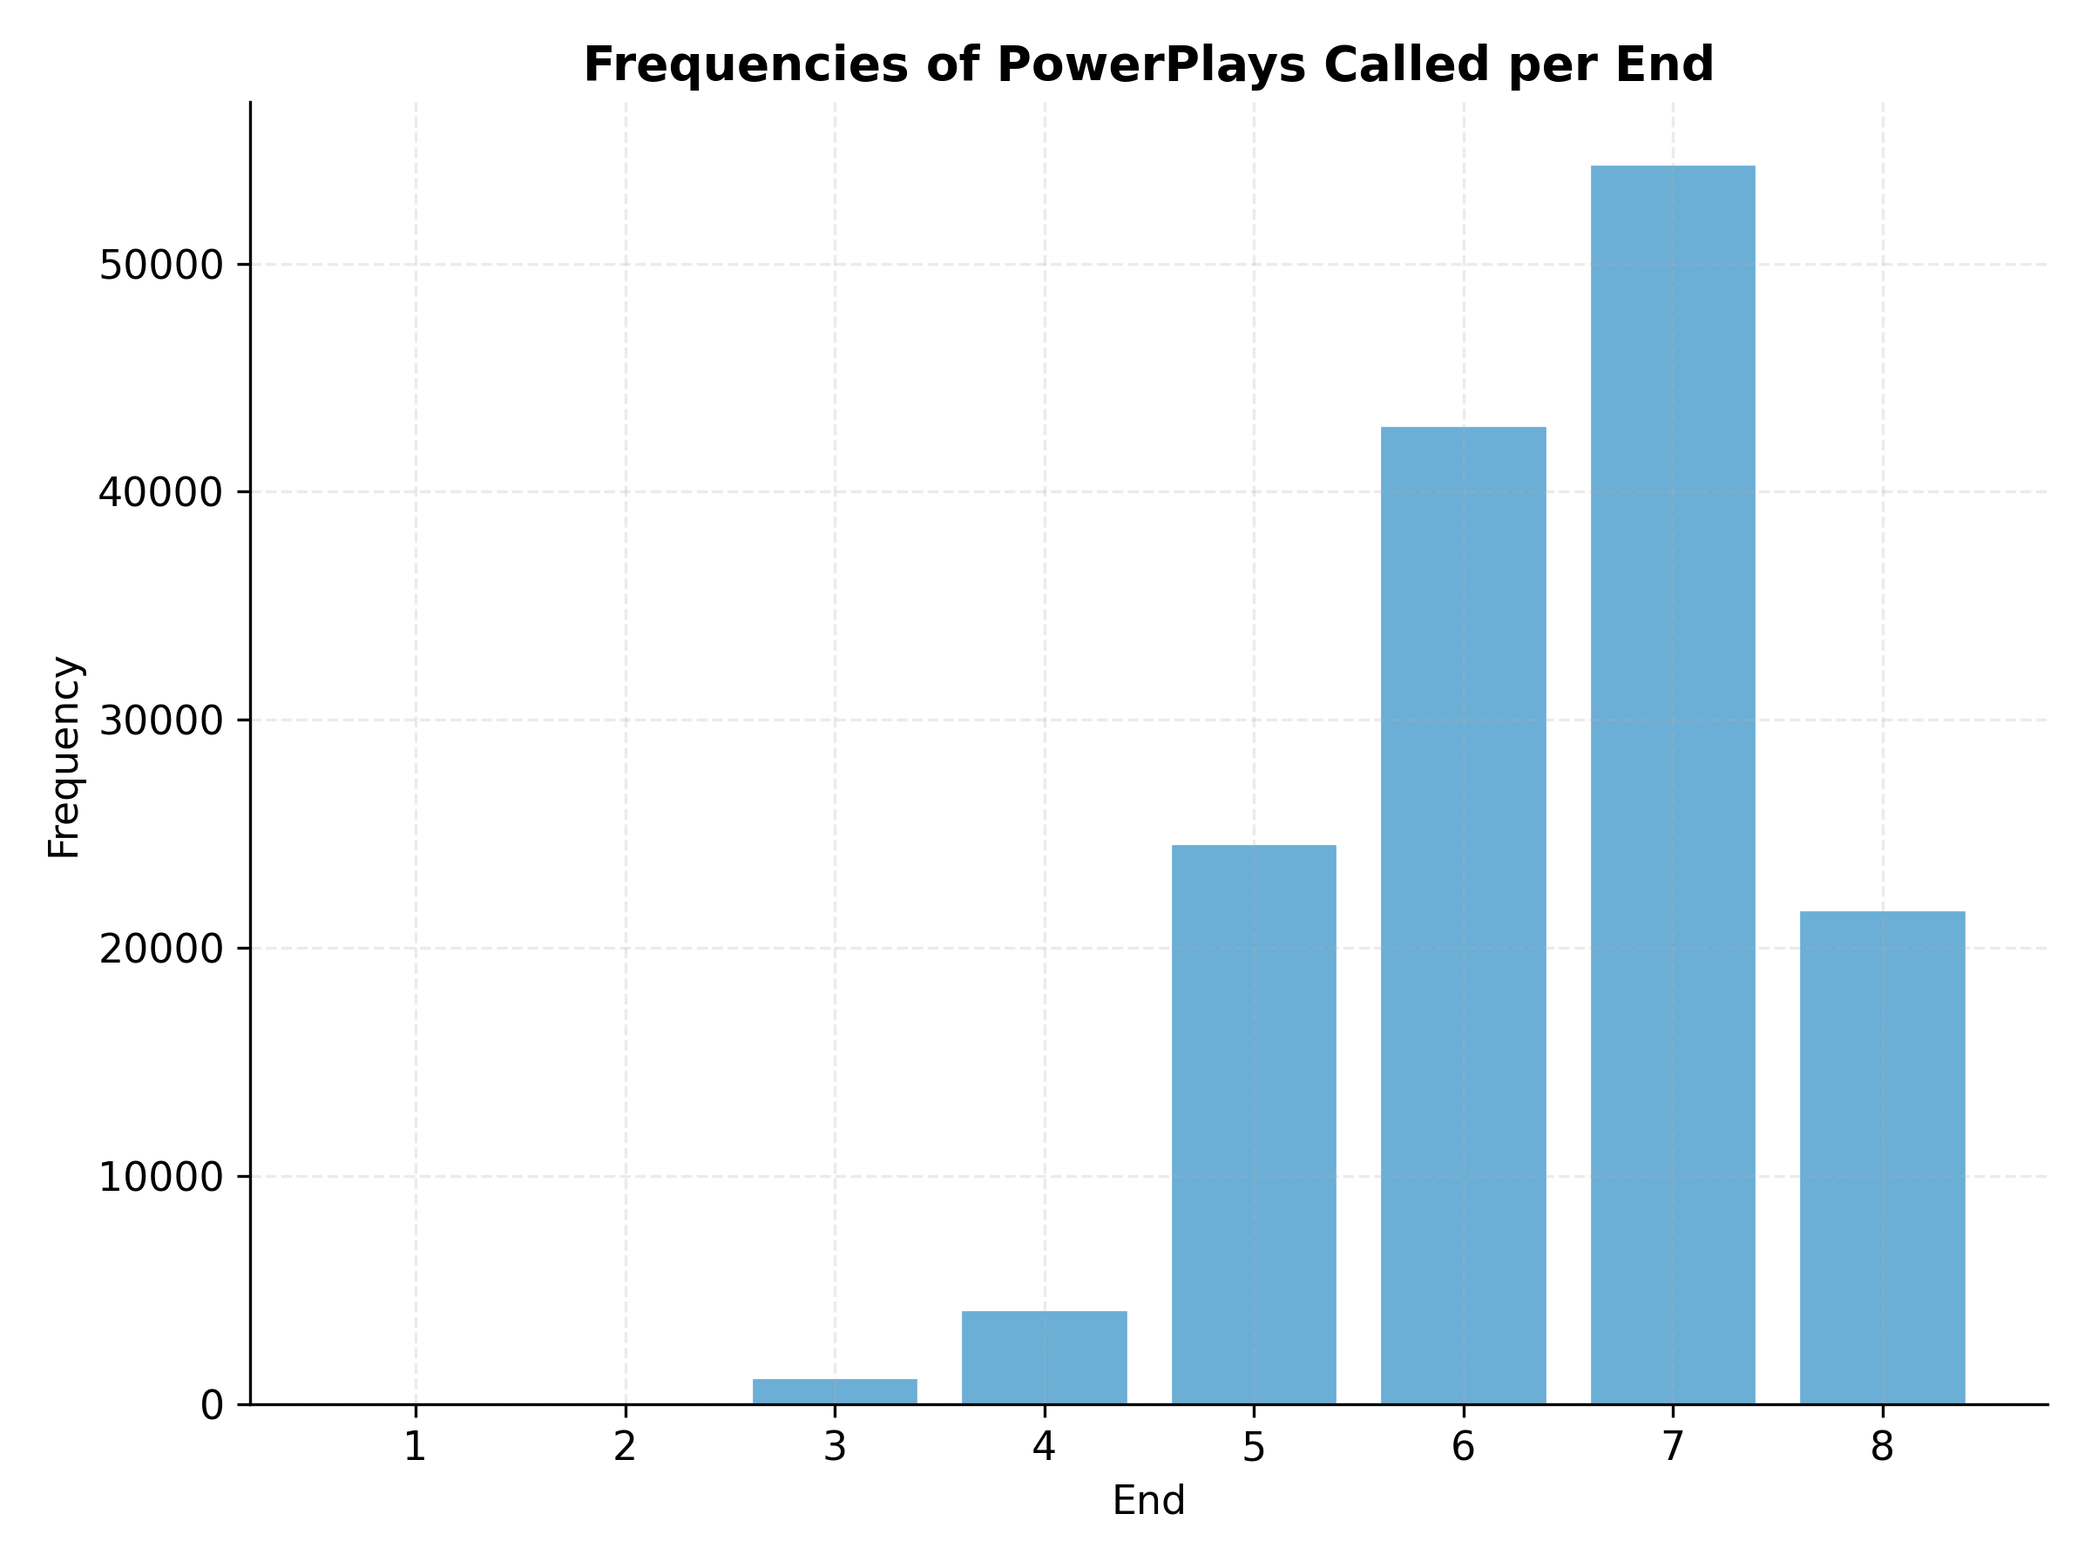
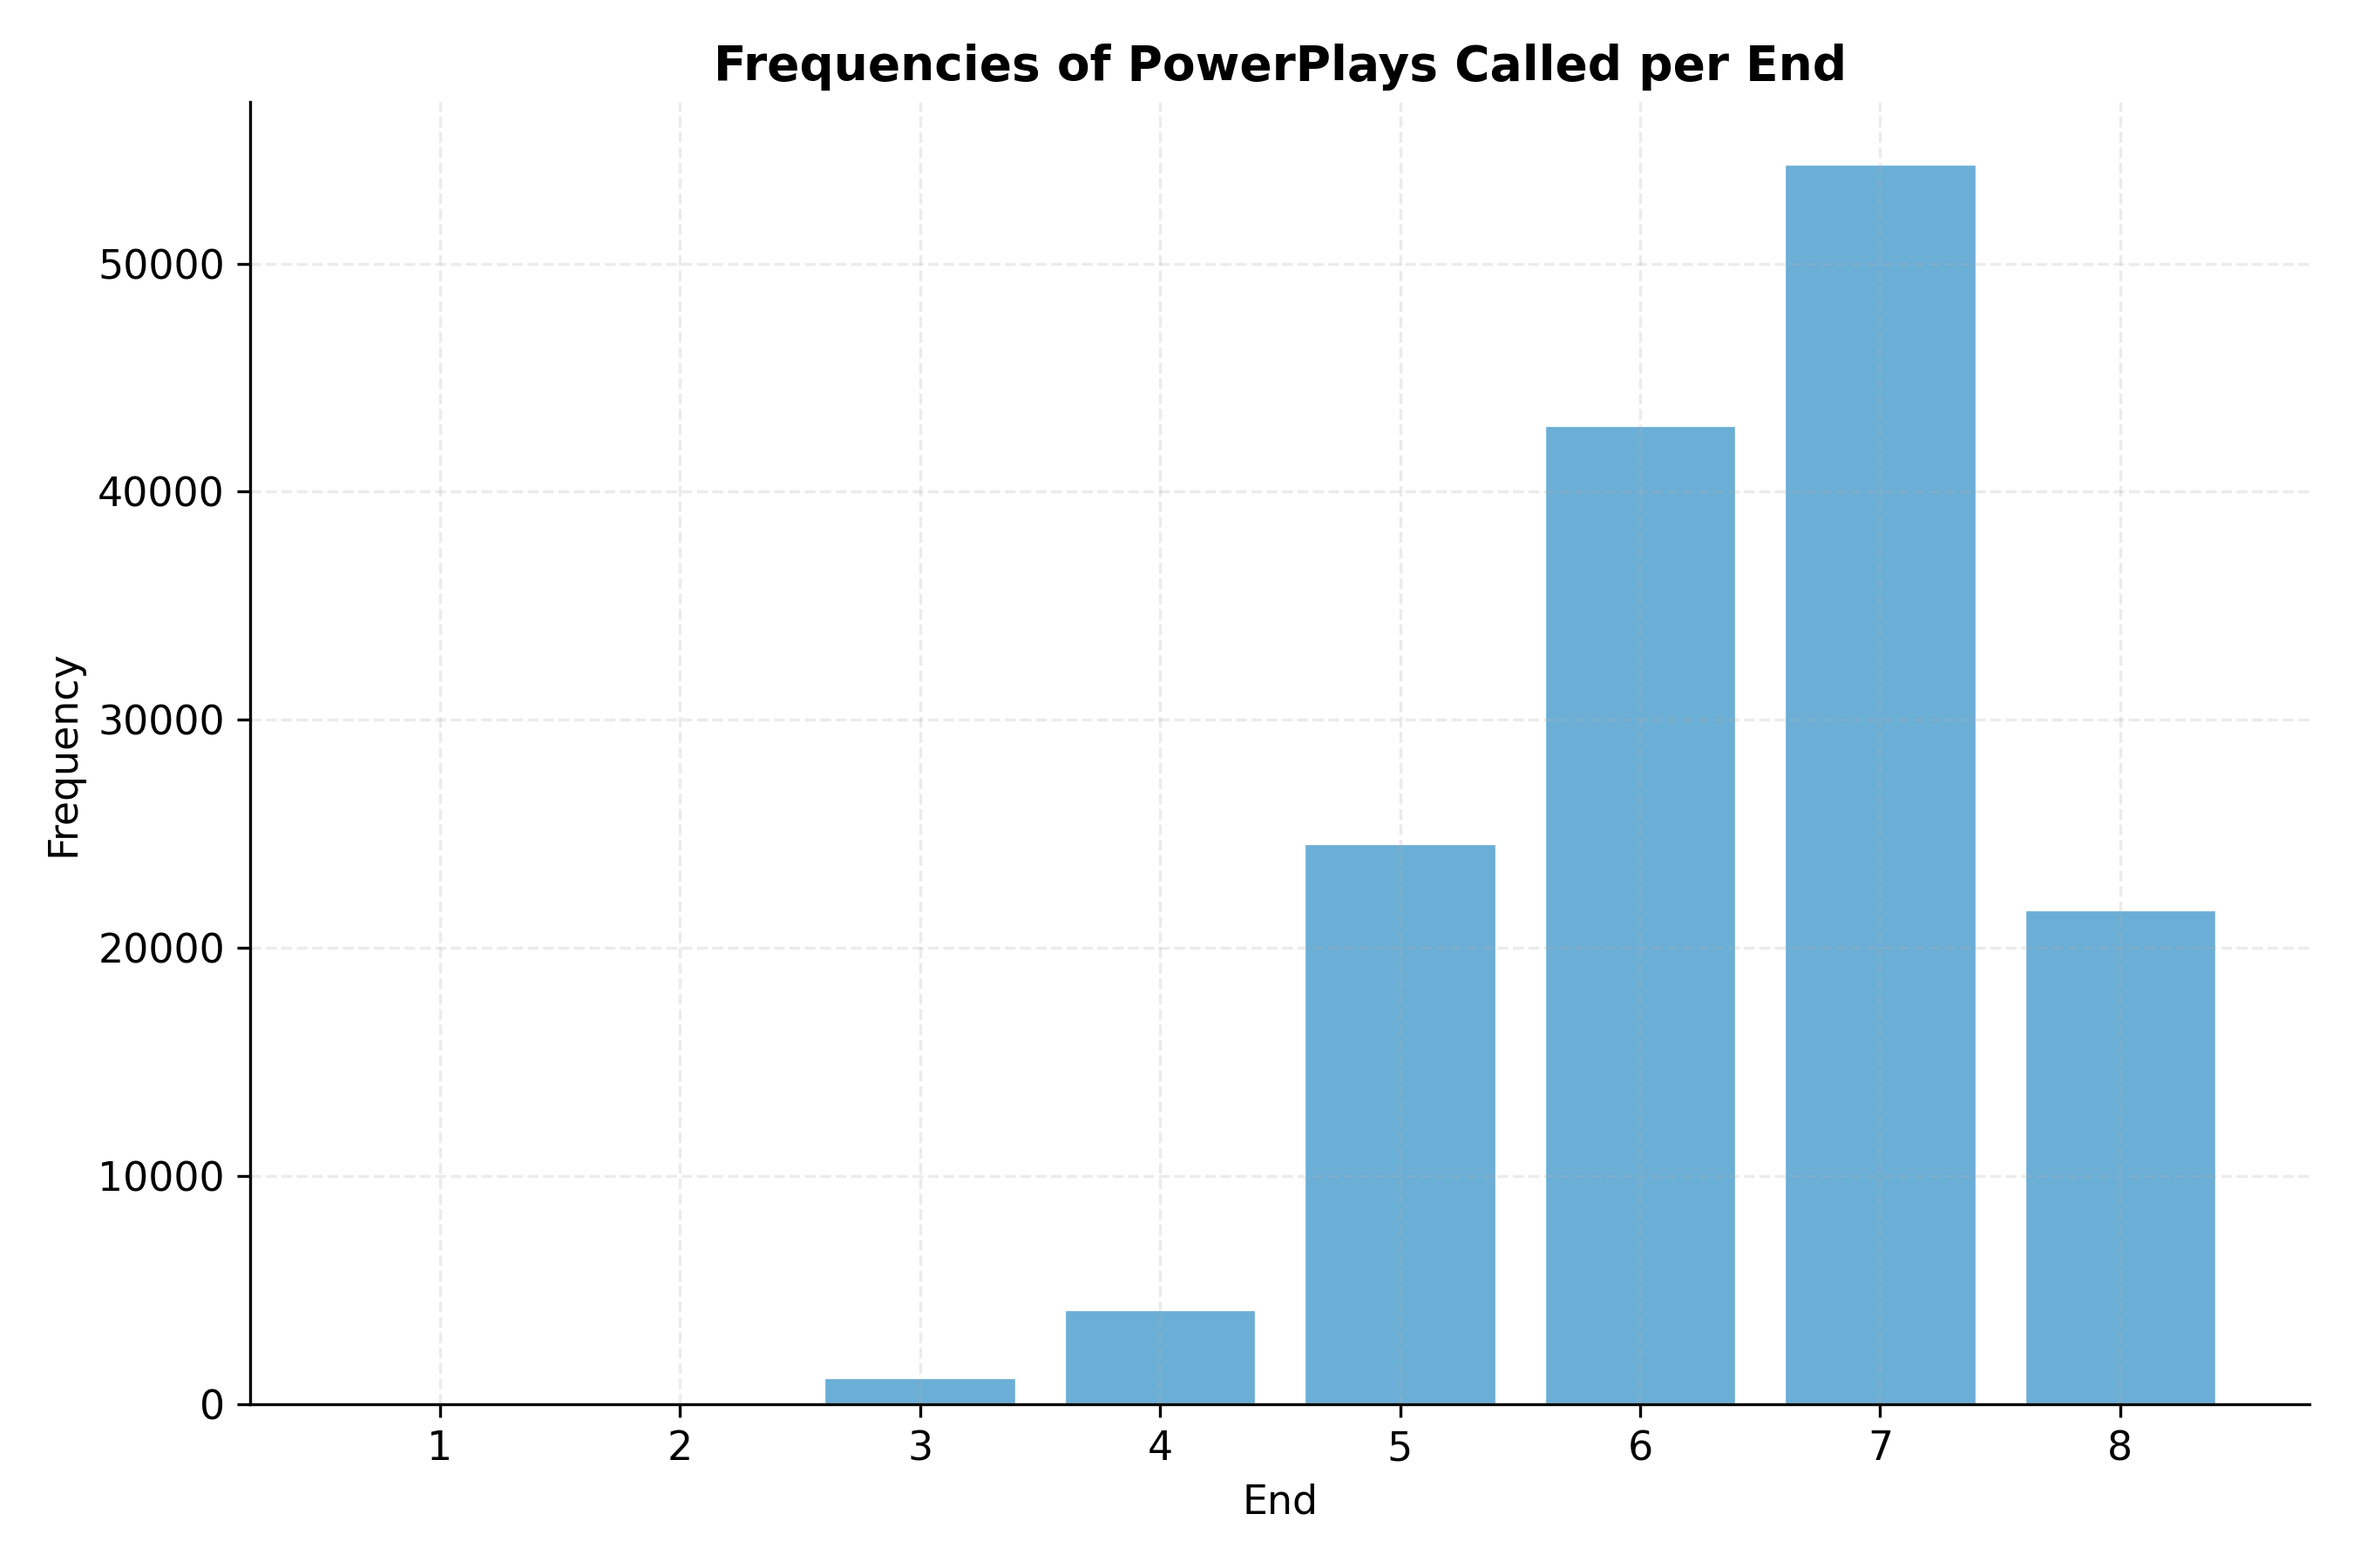
file

diff --git a/figures/graphs.py b/figures/graphs.py
@@ -51,7 +51,7 @@ matches = frequency_dict.pop("matches")
 
 categories = list(frequency_dict.keys())
 frequencies = list(frequency_dict.values())
-plt.figure(figsize=(8, 6))
+plt.figure(figsize=(9, 6))
 plt.bar(categories, frequencies, color=COLORS["frequency_bar"], edgecolor="white", linewidth=0.8)
 plt.title("Frequencies of PowerPlays Called per End")
 plt.xlabel("End")
